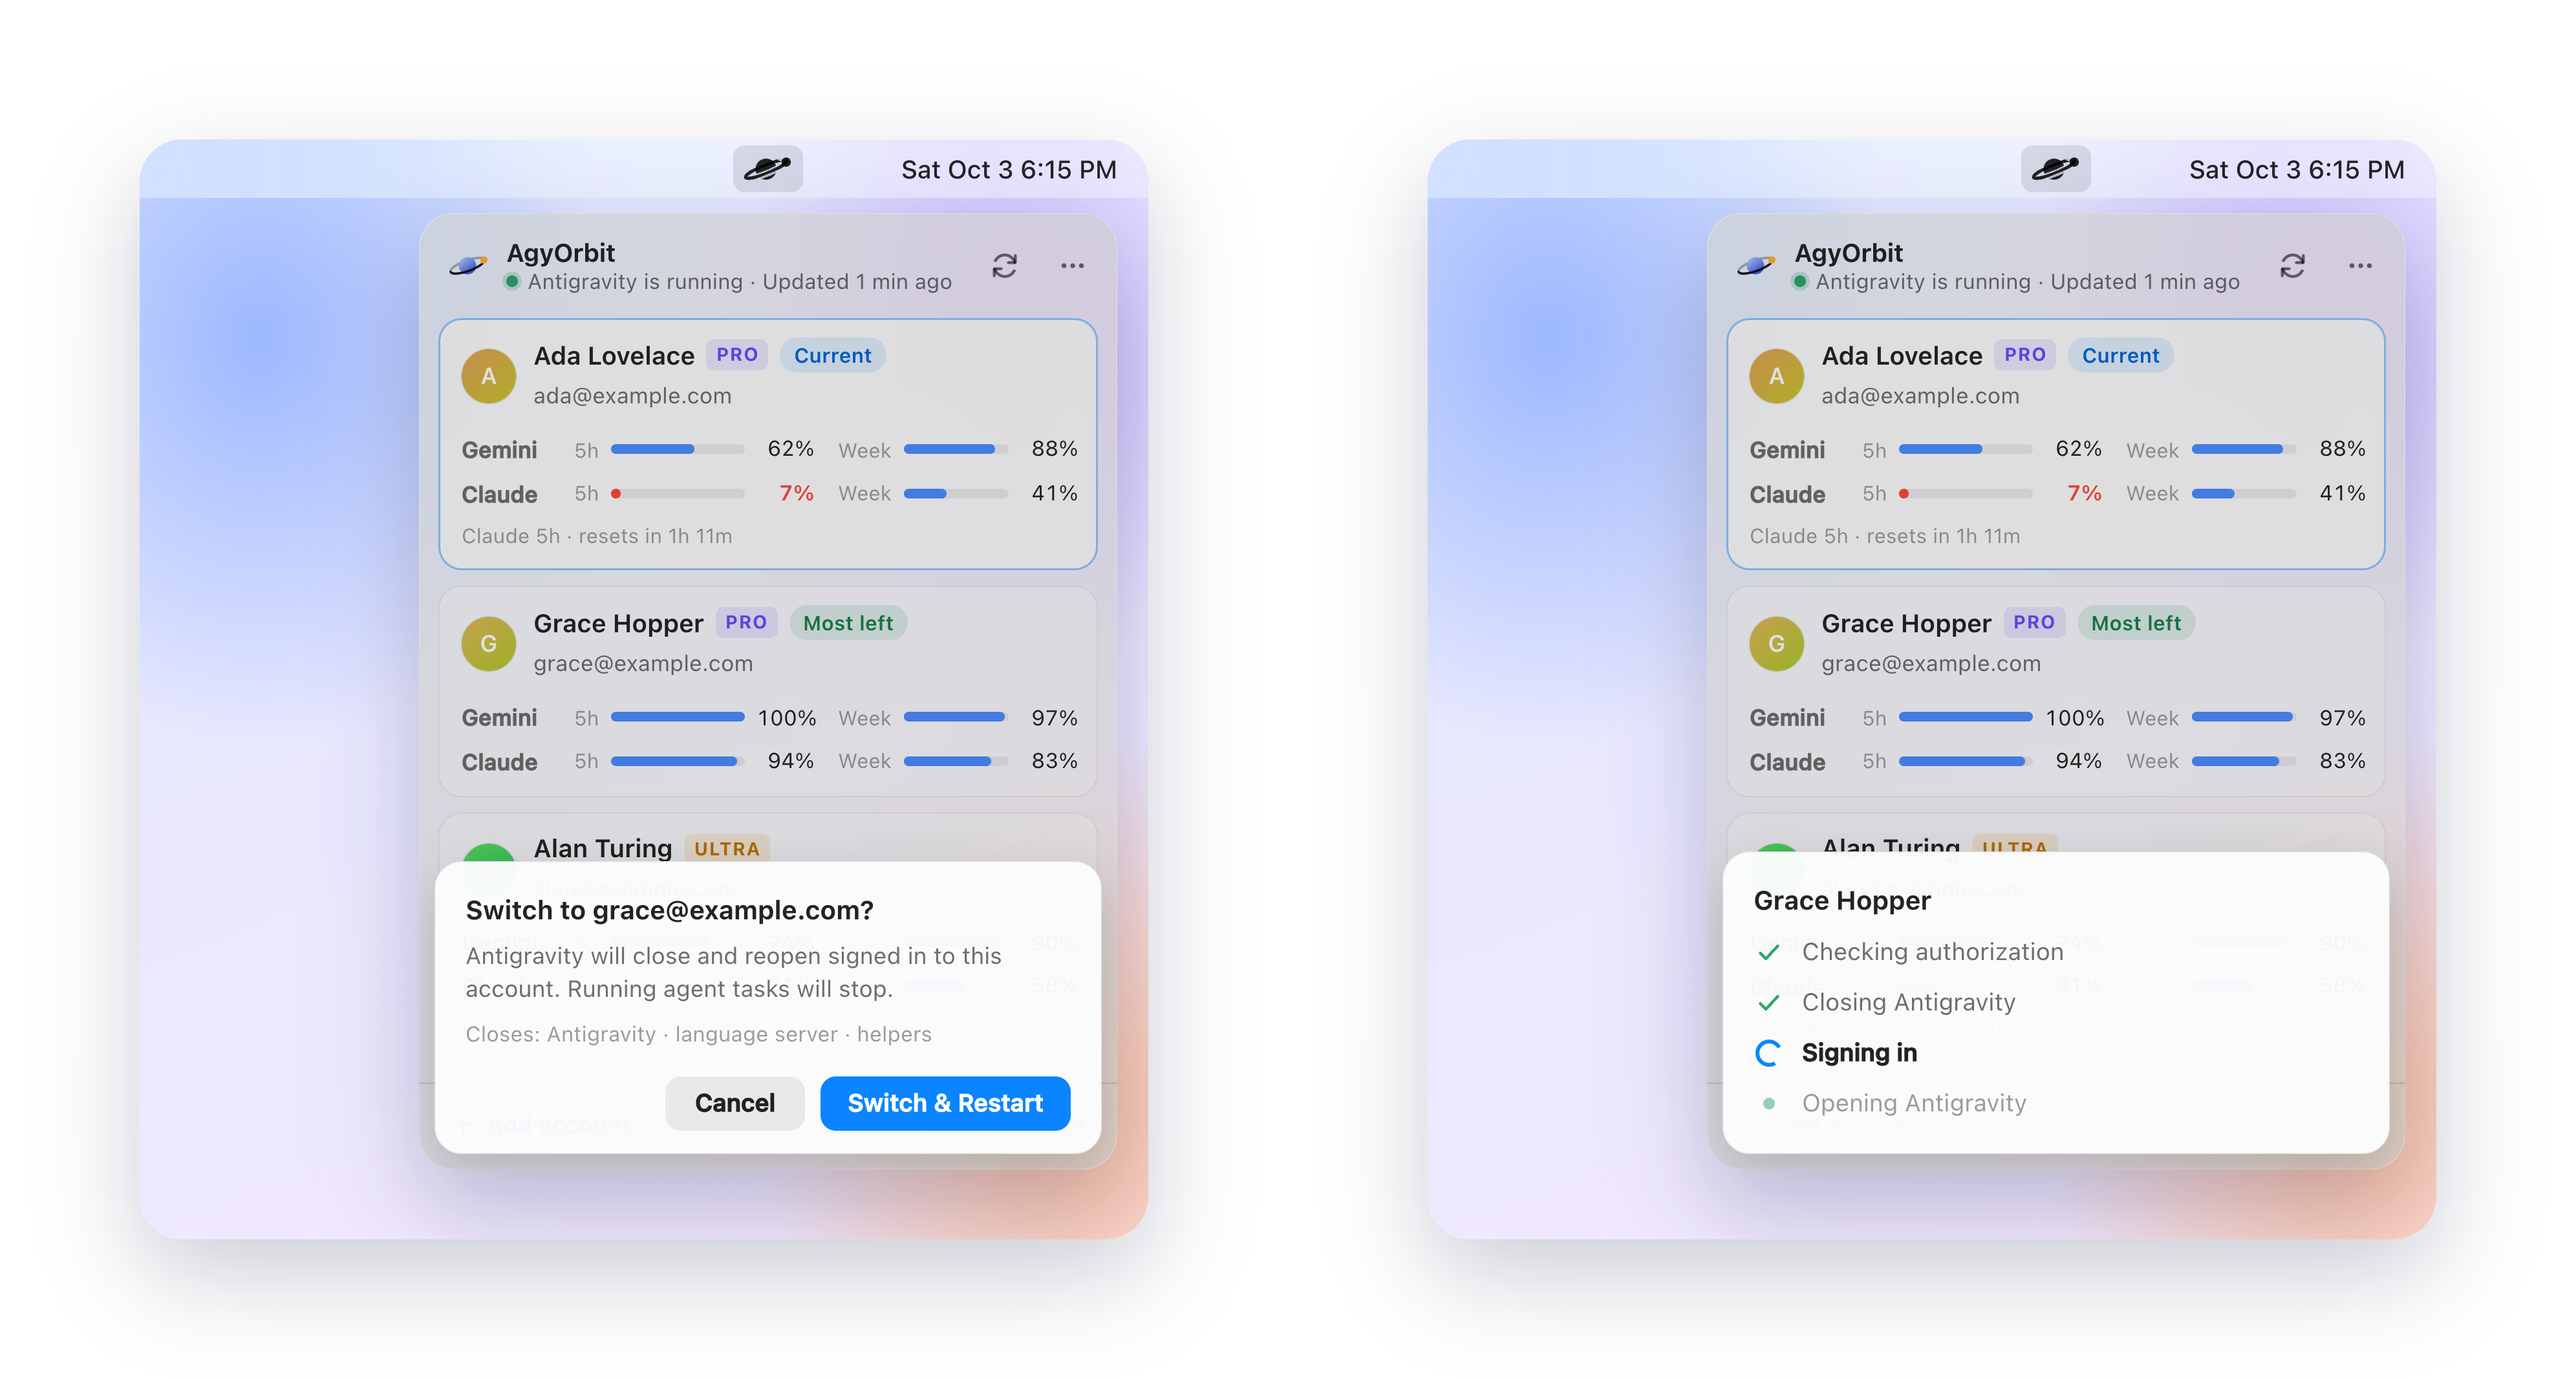
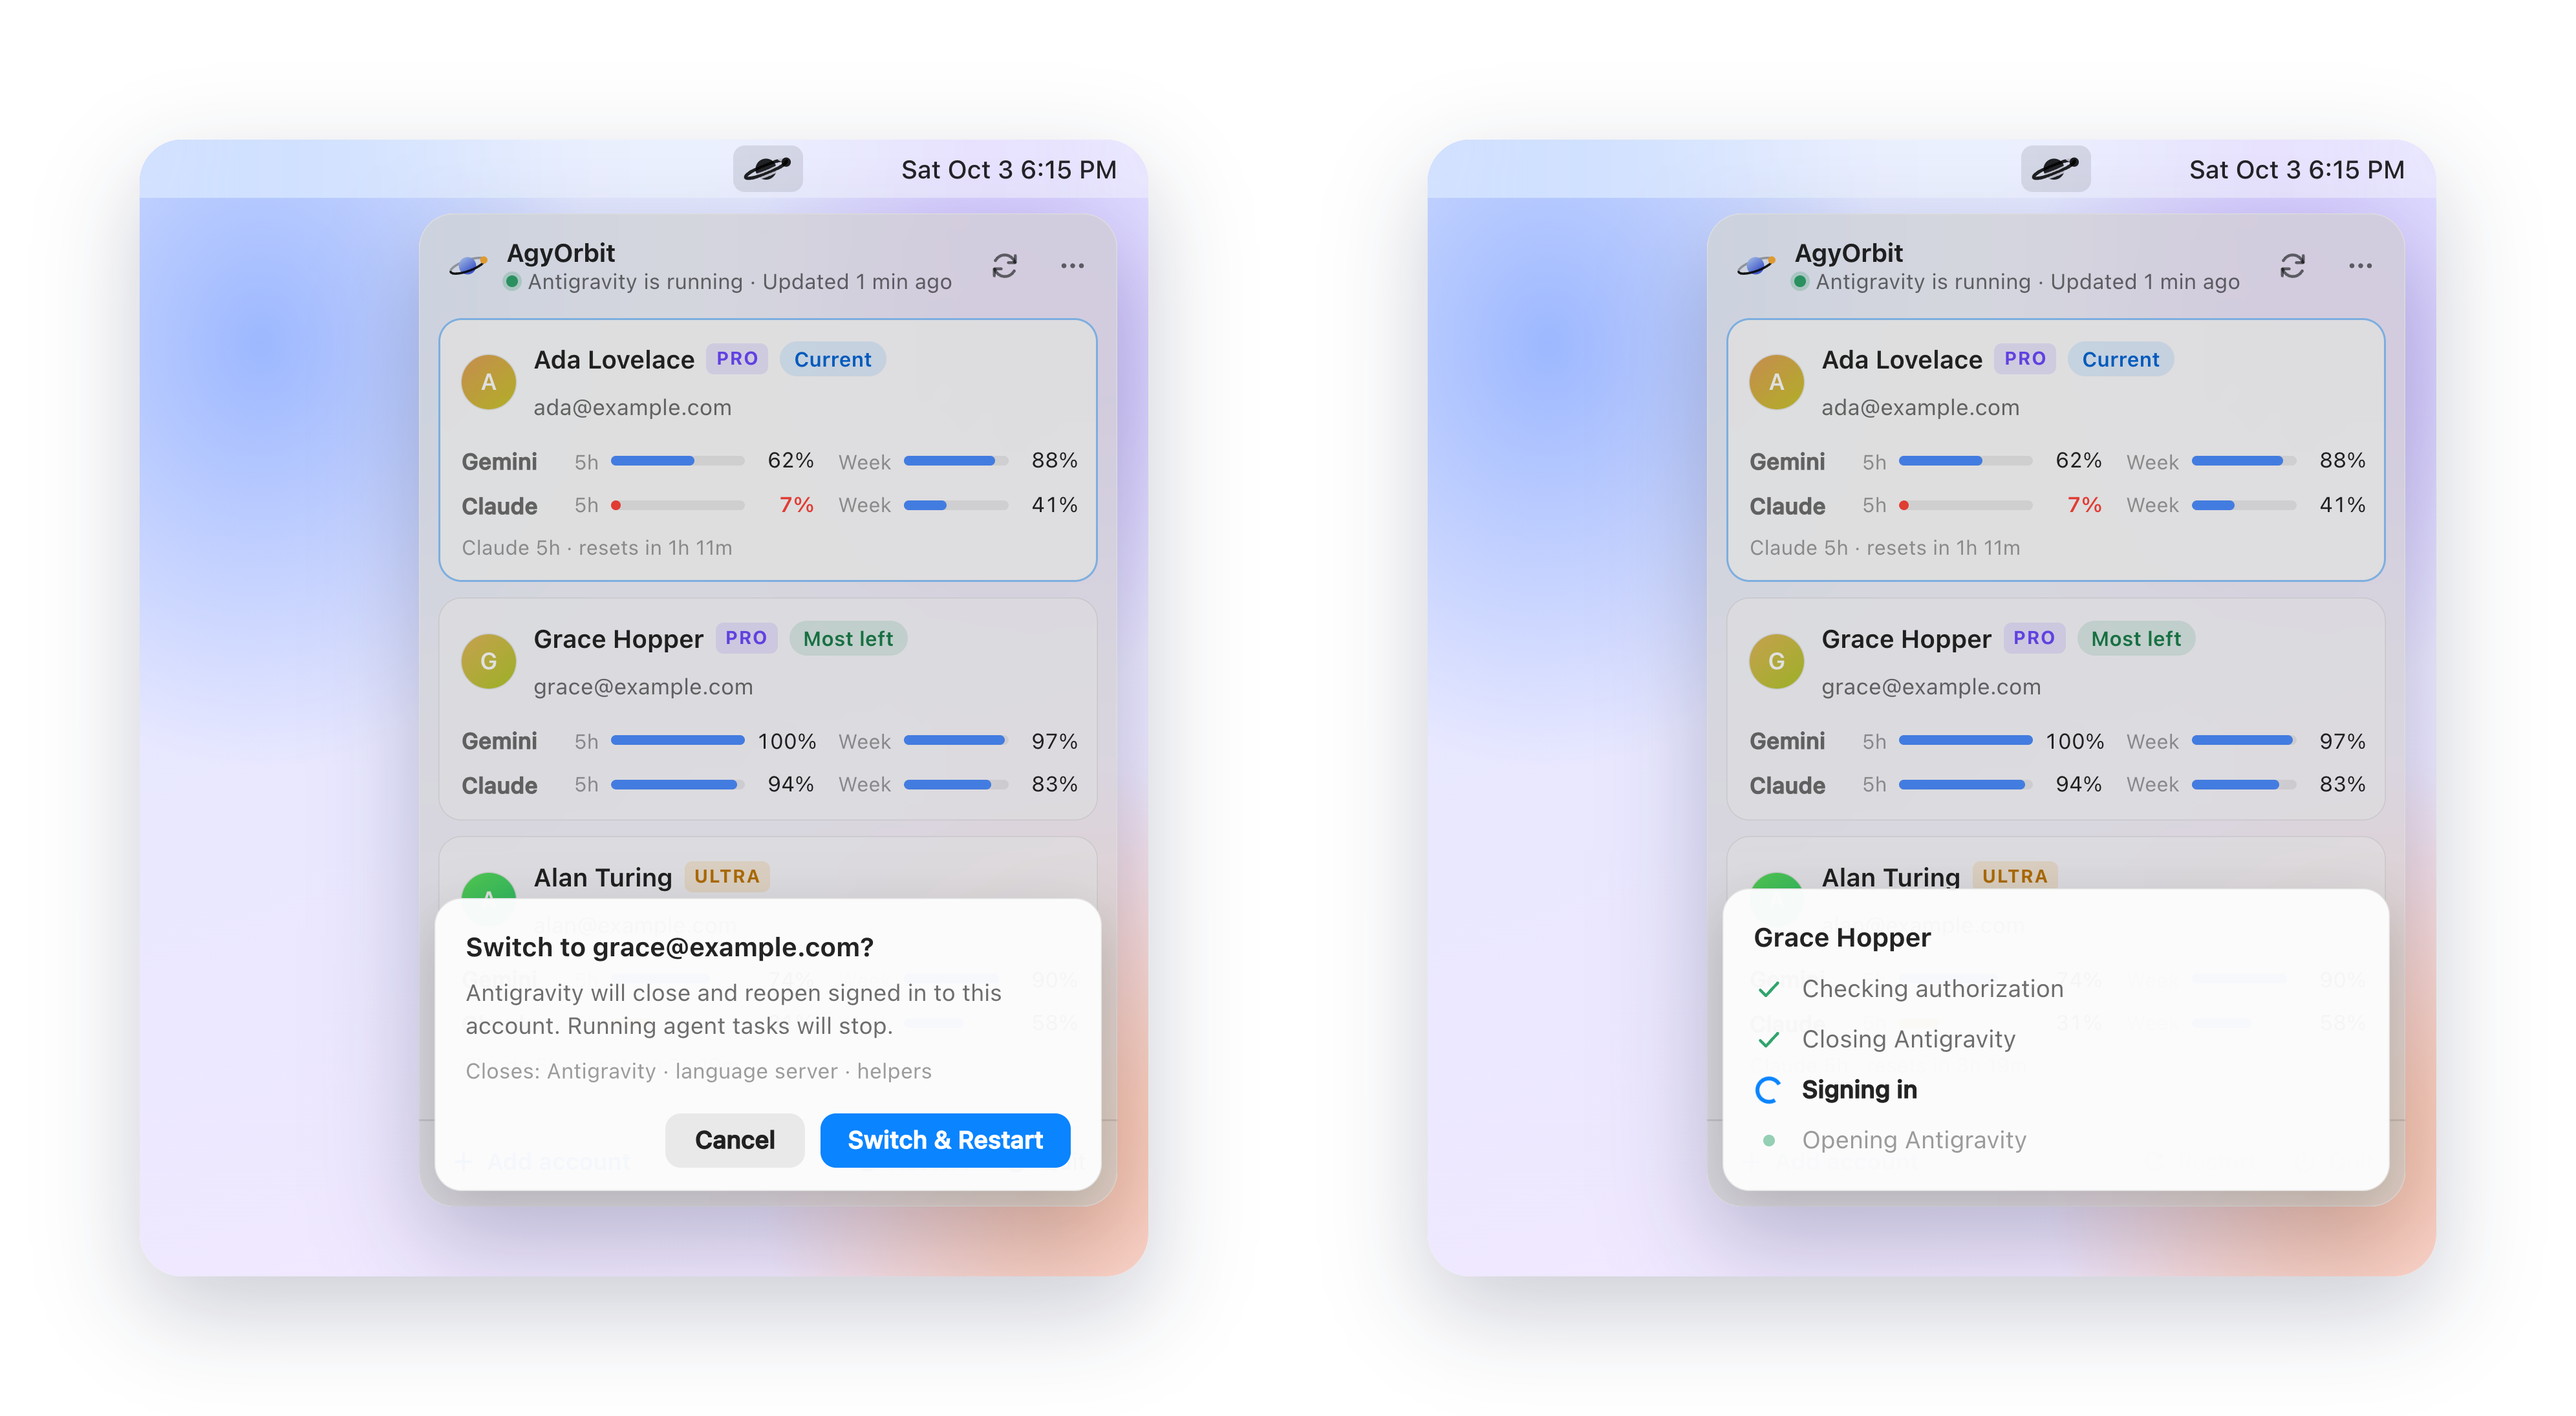
Fix popover corners and simplify account selection (#18)
* Fix native glass content clipping

* Use Liquid Glass content container and prepare v0.1.6

* Simplify account selection and align the account menu

diff --git a/src/components/account-card.tsx b/src/components/account-card.tsx
@@ -83,7 +83,7 @@ export function AccountCard({ account, active, best, disabled, onSwitch, onReaut
   const canSwitch = !active && !disabled && account.quota.status !== "reauth";
   const classes = ["card", active && "card-active", canSwitch && "card-switchable"].filter(Boolean).join(" ");
   return (
-    // biome-ignore lint/a11y/useKeyWithClickEvents: the Switch button inside is the keyboard path.
+    // biome-ignore lint/a11y/useKeyWithClickEvents: the account identity button is the keyboard path.
     <article
       className={classes}
       onClick={canSwitch ? onSwitch : undefined}
@@ -93,30 +93,33 @@ export function AccountCard({ account, active, best, disabled, onSwitch, onReaut
       }}
     >
       <header className="card-head">
-        <Avatar id={account.id} label={name} picture={account.picture} />
-        <div className="card-id">
-          <div className="card-name">
+        <button
+          type="button"
+          className="card-identity"
+          aria-label={[
+            name,
+            account.plan?.kind.toUpperCase(),
+            active && t("account.current"),
+            !active && best && t("account.best"),
+            canSwitch ? t("account.switchTo", { email: account.email }) : account.email,
+          ]
+            .filter(Boolean)
+            .join(" · ")}
+          disabled={!canSwitch}
+          onClick={(event) => {
+            event.stopPropagation();
+            onSwitch();
+          }}
+        >
+          <Avatar id={account.id} label={name} picture={account.picture} />
+          <span className="card-name">
             <span className="truncate">{name}</span>
             <PlanBadge plan={account.plan} />
             {active && <span className="tag tag-current">{t("account.current")}</span>}
             {!active && best && <span className="tag tag-best">{t("account.best")}</span>}
-          </div>
-          <div className="card-email-row">
-            <span className="card-email truncate">{account.email}</span>
-            {canSwitch && (
-              <button
-                type="button"
-                className="switch-btn"
-                onClick={(event) => {
-                  event.stopPropagation();
-                  onSwitch();
-                }}
-              >
-                {t("account.switch")}
-              </button>
-            )}
-          </div>
-        </div>
+          </span>
+          <span className="card-email truncate">{account.email}</span>
+        </button>
         <button
           type="button"
           className="icon-btn card-more"

diff --git a/src/components/account-card.css b/src/components/account-card.css
@@ -12,11 +12,13 @@
 }
 
 .card-switchable {
-  cursor: default;
+  cursor: pointer;
 }
 
-.card-switchable:hover {
+.card-switchable:hover,
+.card-switchable:focus-within {
   background: var(--card-hover);
+  box-shadow: inset 0 0 0 1px var(--accent-line);
 }
 
 .card-active {
@@ -25,34 +27,51 @@
 }
 
 .card-head {
-  display: flex;
-  align-items: center;
-  gap: 9px;
+  display: grid;
+  grid-template-columns: minmax(0, 1fr) 26px;
+  column-gap: 6px;
   min-width: 0;
 }
 
-.card-id {
-  flex: 1;
+.card-identity {
+  display: grid;
+  grid-template-columns: auto minmax(0, 1fr);
+  grid-template-rows: repeat(2, 22px);
+  align-items: center;
+  column-gap: 9px;
+  row-gap: 2px;
   min-width: 0;
+  text-align: left;
+}
+
+.card-identity:not(:disabled) {
+  cursor: pointer;
+}
+
+.card-identity:disabled {
+  opacity: 1;
+}
+
+.card-identity:focus-visible {
+  outline: none;
+}
+
+.card-identity > .avatar {
+  grid-area: 1 / 1 / 3 / 2;
 }
 
 .card-name {
+  grid-area: 1 / 2;
   display: flex;
   align-items: center;
   gap: 6px;
+  min-width: 0;
   font-weight: 600;
   line-height: 17px;
 }
 
-.card-email-row {
-  display: flex;
-  align-items: center;
-  gap: 6px;
-  min-height: 22px;
-}
-
 .card-email {
-  flex: 1;
+  grid-area: 2 / 2;
   min-width: 0;
   font-size: 11.5px;
   line-height: 15px;
@@ -79,28 +98,9 @@
   background: var(--good-fill);
 }
 
-.switch-btn {
-  flex: none;
+.card-head .card-more {
+  align-self: start;
   height: 22px;
-  padding: 0 10px;
-  border-radius: 999px;
-  font-size: 11.5px;
-  font-weight: 600;
-  white-space: nowrap;
-  color: #fff;
-  background: var(--accent);
-  opacity: 0;
-  pointer-events: none;
-  transition: opacity 120ms ease;
-}
-
-.card:hover .switch-btn,
-.card:focus-within .switch-btn {
-  opacity: 1;
-  pointer-events: auto;
-}
-
-.card-more {
   opacity: 0;
 }
 

diff --git a/src/i18n.ts b/src/i18n.ts
@@ -11,7 +11,7 @@ const en = {
   "status.missing": "Antigravity not found",
   "account.current": "Current",
   "account.best": "Most left",
-  "account.switch": "Switch",
+  "account.switchTo": "Switch to {email}",
   "account.loading": "Loading quota…",
   "account.failed": "Couldn't load quota",
   "account.reauth": "Sign-in expired",
@@ -124,7 +124,7 @@ const zh: Record<Key, string> = {
   "status.missing": "未找到 Antigravity",
   "account.current": "当前",
   "account.best": "余量最多",
-  "account.switch": "切换",
+  "account.switchTo": "切换到 {email}",
   "account.loading": "正在获取额度…",
   "account.failed": "额度获取失败",
   "account.reauth": "授权已失效",

diff --git a/scripts/screenshot/mock-tauri.js b/scripts/screenshot/mock-tauri.js
@@ -86,7 +86,7 @@ document.addEventListener("DOMContentLoaded", () => {
   if (scene !== "confirm") return;
   // Open the switch confirmation as soon as the recommended card renders.
   const observer = new MutationObserver(() => {
-    const button = document.querySelector(".card:has(.tag-best) .switch-btn");
+    const button = document.querySelector(".card:has(.tag-best) .card-identity");
     if (button) {
       observer.disconnect();
       button.click();

diff --git a/src-tauri/src/shell.rs b/src-tauri/src/shell.rs
@@ -32,7 +32,6 @@ pub fn create(app: &AppHandle) -> tauri::Result<WebviewWindow> {
 
     #[cfg(target_os = "macos")]
     let builder = {
-        use tauri::window::{Effect, EffectState, EffectsBuilder};
         builder
             .inner_size(PANEL_WIDTH, 480.0)
             .resizable(false)
@@ -41,17 +40,10 @@ pub fn create(app: &AppHandle) -> tauri::Result<WebviewWindow> {
             .always_on_top(true)
             .skip_taskbar(true)
             .visible(false)
-            // NSWindow's shadow adds a square frame outside the rounded glass view.
+            // Liquid Glass supplies the surface edge; avoid a second window shadow.
             .shadow(false)
             .visible_on_all_workspaces(true)
             .accept_first_mouse(true)
-            .effects(
-                EffectsBuilder::new()
-                    .effect(Effect::LiquidGlassRegular)
-                    .state(EffectState::Active)
-                    .radius(18.0)
-                    .build(),
-            )
     };
 
     #[cfg(not(target_os = "macos"))]
@@ -61,7 +53,28 @@ pub fn create(app: &AppHandle) -> tauri::Result<WebviewWindow> {
         .center()
         .visible(!std::env::args().any(|arg| arg == BACKGROUND_ARG));
 
-    builder.build()
+    let window = builder.build()?;
+    #[cfg(target_os = "macos")]
+    {
+        let glass_window = window.clone();
+        let (sender, receiver) = std::sync::mpsc::sync_channel(1);
+        window.with_webview(move |webview| {
+            // Tauri supplies a live WKWebView (an NSView subclass) on the main thread.
+            let content = unsafe { &*webview.inner().cast::<objc2_app_kit::NSView>() };
+            let result = window_vibrancy::apply_liquid_glass(
+                &glass_window,
+                window_vibrancy::LiquidGlassOptions::default()
+                    .radius(18.0)
+                    .content_view(content),
+            );
+            let _ = sender.send(result);
+        })?;
+        receiver
+            .recv()
+            .map_err(std::io::Error::other)?
+            .map_err(std::io::Error::other)?;
+    }
+    Ok(window)
 }
 
 pub fn toggle(app: &AppHandle) {

diff --git a/docs/design.md b/docs/design.md
@@ -10,8 +10,10 @@ confirmed click to switch.
 ## Surfaces
 
 - **macOS**: a popover under the menu bar icon, Liquid Glass background, no Dock icon. It resizes to its
-  content (up to 680 pt) and closes when focus leaves, like a menu. The system window shadow is disabled
-  so it does not draw a rectangular outline outside the glass corners. macOS 26 or later.
+  content (up to 680 pt) and closes when focus leaves, like a menu. The WebView lives inside the native
+  Liquid Glass container through `window-vibrancy`’s `content_view` API; that container clips all page
+  fills and confirmation backdrops to the same 18 pt corners. The extra system window shadow is
+  disabled. macOS 26 or later.
 - **Windows**: a compact window opened from the tray icon. Closing it keeps AgyOrbit in the tray.
 - Both run the same React UI; `platform-macos` / `platform-windows` on the root only change surface
   tokens and sizing.
@@ -44,8 +46,10 @@ What happens and when is defined in [PRODUCT.md](../PRODUCT.md); this is how it 
 - One row per quota group (Gemini, Claude) with the 5-hour and weekly windows side by side, each a meter
   and the share remaining. Colour changes only when it matters: amber below 35 %, red below 10 %.
 - When a window is low, a footnote says when it recovers; hovering any meter shows its reset time.
-- The Switch button appears on hover or keyboard focus in reserved space beside the email, so it never
-  overlaps the name, plan or tags.
+- Clicking a switchable card opens the switch confirmation. Hover and keyboard focus highlight its
+  fill and border; the account identity is the keyboard activation target. More sits at the far right
+  of the name and tags row and appears on hover or focus. Long names and emails truncate within their
+  own column.
 
 ## Visual tokens
 

diff --git a/docs/status.md b/docs/status.md
@@ -28,12 +28,16 @@ Each external fact these rely on, and the Antigravity version it was checked aga
 
 ## Verified with synthetic accounts
 
-- Native Tauri popover on macOS 27 in light and dark appearance: the account list and switch
-  confirmation keep their rounded Liquid Glass surface with the outer system window shadow disabled;
-  opening and cancelling the confirmation returns to the list.
+- Native Tauri popover on macOS 27 with the production window code: a solid red page background is
+  clipped at all four corners by the Liquid Glass content container. The account list and switch
+  confirmation are rounded in light and dark appearance; opening and cancelling the confirmation
+  returns to the list. Native content frames and the clipping radius stay aligned when the window
+  resizes.
 
-- Account-card layout in Chrome on macOS, in English and Simplified Chinese, light and dark: tags and
-  the Switch button do not overlap, including long names and emails, hover and keyboard focus.
+- Account-card layout in Chrome on macOS, in English and Simplified Chinese, light and dark: the account
+  identity, tags and More do not overlap, including long names and emails. Hover and
+  keyboard focus highlight switchable cards; identity activation opens the confirmation and Escape
+  returns focus to it.
 
 - Update sheets in Chrome on macOS, in both languages and appearances: long notes, an empty account
   list, determinate and indeterminate download progress, Escape/Later dismissal, and exactly one

diff --git a/CHANGELOG.md b/CHANGELOG.md
@@ -6,12 +6,23 @@ All notable changes to AgyOrbit are documented here. The format follows
 
 ## [Unreleased]
 
+## [0.1.6] - 2026-10-06
+
+### Fixed
+
+- Clip the macOS popover content inside its native Liquid Glass container, so page backgrounds and
+  confirmation backdrops cannot draw rectangular corners outside the glass surface.
+
+### Changed
+
+- Remove the redundant Switch pill from account cards. Highlight the whole card on hover or keyboard
+  focus, retain keyboard activation and move More to the far right of the name and tags row.
+
 ## [0.1.5] - 2026-10-06
 
 ### Fixed
 
-- The macOS popover no longer shows a square window outline around its rounded Liquid Glass corners,
-  especially in light appearance.
+- Disabled the extra macOS window shadow that drew a dark outline outside the Liquid Glass corners.
 
 ## [0.1.4] - 2026-10-04
 
